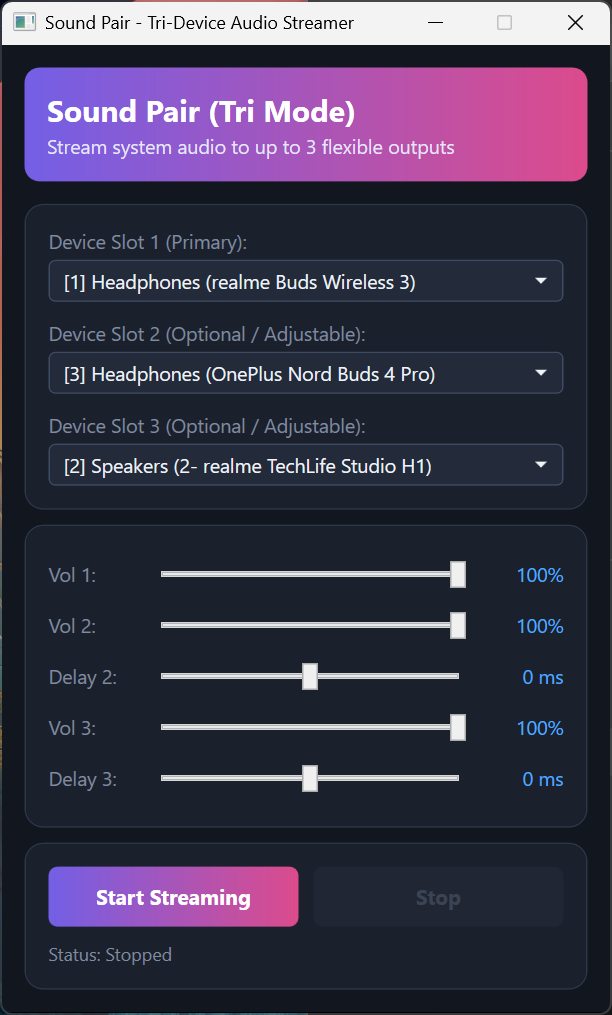
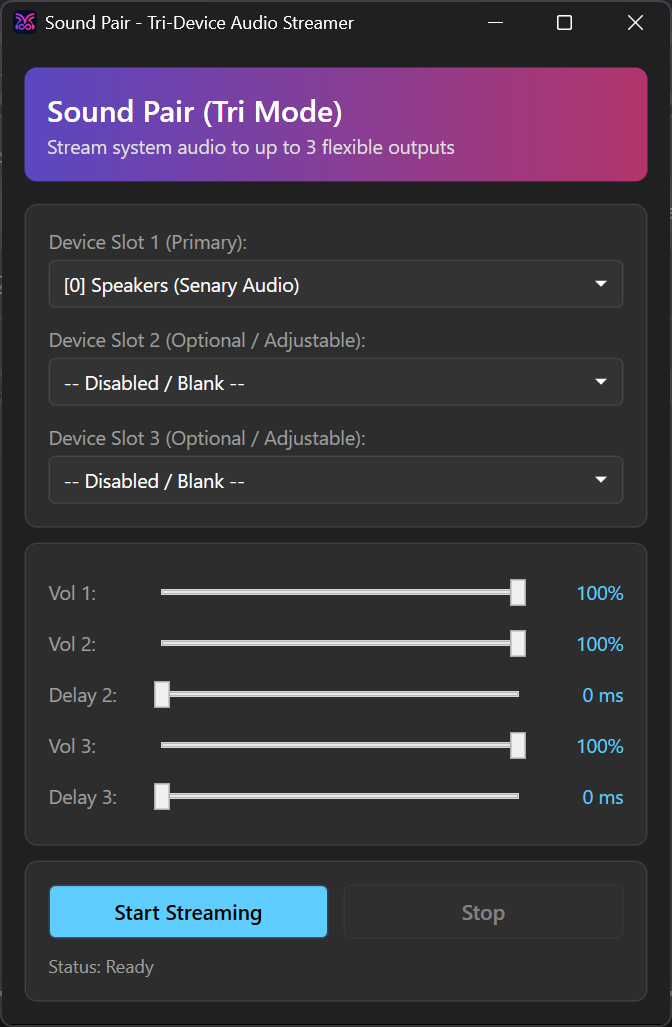
ui change

diff --git a/MainWindow.xaml b/MainWindow.xaml
@@ -6,31 +6,31 @@
         MinWidth="420" MinHeight="550"
         Width="460" SizeToContent="Height"
         WindowStartupLocation="CenterScreen"
-        Background="#12161F"
-        FontFamily="Segoe UI"
+        Background="#202020"
+        FontFamily="Segoe UI Variable, Segoe UI, sans-serif"
         ResizeMode="CanResize">
 
     <Window.Resources>
-        <!-- Color Palette -->
-        <SolidColorBrush x:Key="CardBg" Color="#1A202C"/>
-        <SolidColorBrush x:Key="CardBorder" Color="#2D3748"/>
-        <SolidColorBrush x:Key="TextSec" Color="#828CA0"/>
-        <SolidColorBrush x:Key="Highlight" Color="#50AAFF"/>
-        <SolidColorBrush x:Key="DarkInputBg" Color="#232B3A"/>
-        <SolidColorBrush x:Key="DarkInputBorder" Color="#3E4C63"/>
+        <!-- Windows 11 Dark Mode Color Palette -->
+        <SolidColorBrush x:Key="CardBg" Color="#2D2D2D"/>
+        <SolidColorBrush x:Key="CardBorder" Color="#404040"/>
+        <SolidColorBrush x:Key="TextSec" Color="#A0A0A0"/>
+        <SolidColorBrush x:Key="Highlight" Color="#60CDFF"/>
+        <SolidColorBrush x:Key="DarkInputBg" Color="#333333"/>
+        <SolidColorBrush x:Key="DarkInputBorder" Color="#454545"/>
 
         <!-- Generic Text Style -->
         <Style TargetType="TextBlock">
-            <Setter Property="Foreground" Value="#F0F4F8"/>
+            <Setter Property="Foreground" Value="#FFFFFF"/>
             <Setter Property="FontSize" Value="13"/>
         </Style>
 
         <!-- True Dark Mode ComboBox -->
         <Style TargetType="ComboBox">
             <Setter Property="Margin" Value="0,4,0,12"/>
-            <Setter Property="Height" Value="28"/>
+            <Setter Property="Height" Value="32"/>
             <Setter Property="FontSize" Value="13"/>
-            <Setter Property="Foreground" Value="#F0F4F8"/>
+            <Setter Property="Foreground" Value="#FFFFFF"/>
             <Setter Property="Template">
                 <Setter.Value>
                     <ControlTemplate TargetType="ComboBox">
@@ -39,14 +39,14 @@
                                 <ToggleButton.Template>
                                     <ControlTemplate TargetType="ToggleButton">
                                         <Border Background="{StaticResource DarkInputBg}" BorderBrush="{StaticResource DarkInputBorder}" BorderThickness="1" CornerRadius="4">
-                                            <Path x:Name="Arrow" Fill="#F0F4F8" HorizontalAlignment="Right" VerticalAlignment="Center" Margin="0,0,10,0" Data="M 0 0 L 4 4 L 8 0 Z"/>
+                                            <Path x:Name="Arrow" Fill="#FFFFFF" HorizontalAlignment="Right" VerticalAlignment="Center" Margin="0,0,10,0" Data="M 0 0 L 4 4 L 8 0 Z"/>
                                         </Border>
                                     </ControlTemplate>
                                 </ToggleButton.Template>
                             </ToggleButton>
                             <ContentPresenter x:Name="ContentSite" IsHitTestVisible="False" Content="{TemplateBinding SelectionBoxItem}" Margin="10,0,30,0" VerticalAlignment="Center"/>
                             <Popup x:Name="Popup" Placement="Bottom" IsOpen="{TemplateBinding IsDropDownOpen}" AllowsTransparency="True" Focusable="False" PopupAnimation="Slide">
-                                <Border x:Name="DropDownBorder" Background="{StaticResource DarkInputBg}" BorderThickness="1" BorderBrush="{StaticResource DarkInputBorder}" MinWidth="{TemplateBinding ActualWidth}" MaxHeight="150">
+                                <Border x:Name="DropDownBorder" Background="{StaticResource CardBg}" BorderThickness="1" BorderBrush="{StaticResource CardBorder}" CornerRadius="4" MinWidth="{TemplateBinding ActualWidth}" MaxHeight="150" Margin="0,4,0,0">
                                     <ScrollViewer SnapsToDevicePixels="True">
                                         <StackPanel IsItemsHost="True" KeyboardNavigation.DirectionalNavigation="Contained" />
                                     </ScrollViewer>
@@ -59,17 +59,18 @@
             <Setter Property="ItemContainerStyle">
                 <Setter.Value>
                     <Style TargetType="ComboBoxItem">
-                        <Setter Property="Foreground" Value="#F0F4F8"/>
-                        <Setter Property="Padding" Value="10,5"/>
+                        <Setter Property="Foreground" Value="#FFFFFF"/>
+                        <Setter Property="Padding" Value="10,6"/>
+                        <Setter Property="Margin" Value="4,2"/>
                         <Setter Property="Template">
                             <Setter.Value>
                                 <ControlTemplate TargetType="ComboBoxItem">
-                                    <Border x:Name="ItemBorder" Background="Transparent">
+                                    <Border x:Name="ItemBorder" Background="Transparent" CornerRadius="4">
                                         <ContentPresenter Margin="{TemplateBinding Padding}"/>
                                     </Border>
                                     <ControlTemplate.Triggers>
                                         <Trigger Property="IsHighlighted" Value="True">
-                                            <Setter TargetName="ItemBorder" Property="Background" Value="#313D52"/>
+                                            <Setter TargetName="ItemBorder" Property="Background" Value="#404040"/>
                                         </Trigger>
                                     </ControlTemplate.Triggers>
                                 </ControlTemplate>
@@ -83,12 +84,12 @@
         <!-- Custom Button Style -->
         <Style x:Key="DarkButton" TargetType="Button">
             <Setter Property="Foreground" Value="White"/>
-            <Setter Property="FontWeight" Value="Bold"/>
+            <Setter Property="FontWeight" Value="SemiBold"/>
             <Setter Property="FontSize" Value="14"/>
             <Setter Property="Template">
                 <Setter.Value>
                     <ControlTemplate TargetType="Button">
-                        <Border x:Name="Border" Background="{TemplateBinding Background}" CornerRadius="6">
+                        <Border x:Name="Border" Background="{TemplateBinding Background}" BorderBrush="{TemplateBinding BorderBrush}" BorderThickness="{TemplateBinding BorderThickness}" CornerRadius="4">
                             <ContentPresenter HorizontalAlignment="Center" VerticalAlignment="Center"/>
                         </Border>
                         <ControlTemplate.Triggers>
@@ -105,7 +106,7 @@
             <Setter Property="Background" Value="{StaticResource CardBg}"/>
             <Setter Property="BorderBrush" Value="{StaticResource CardBorder}"/>
             <Setter Property="BorderThickness" Value="1"/>
-            <Setter Property="CornerRadius" Value="12"/>
+            <Setter Property="CornerRadius" Value="8"/>
             <Setter Property="Padding" Value="15"/>
             <Setter Property="Margin" Value="0,0,0,10"/>
         </Style>
@@ -115,16 +116,16 @@
         <StackPanel Margin="15">
             
             <!-- Header -->
-            <Border CornerRadius="10" Margin="0,0,0,15" Padding="15">
+            <Border CornerRadius="8" Margin="0,0,0,15" Padding="15">
                 <Border.Background>
                     <LinearGradientBrush StartPoint="0,0" EndPoint="1,0">
-                        <GradientStop Color="#735FE6" Offset="0"/>
-                        <GradientStop Color="#DC4B8C" Offset="1"/>
+                        <GradientStop Color="#5A47C1" Offset="0"/>
+                        <GradientStop Color="#B2356B" Offset="1"/>
                     </LinearGradientBrush>
                 </Border.Background>
                 <StackPanel>
-                    <TextBlock Text="Sound Pair (Tri Mode)" FontSize="20" FontWeight="Bold" Foreground="White"/>
-                    <TextBlock Text="Stream system audio to up to 3 flexible outputs" FontSize="13" Foreground="#E6E6FA" Margin="0,2,0,0"/>
+                    <TextBlock Text="Sound Pair (Tri Mode)" FontSize="20" FontWeight="SemiBold" Foreground="White"/>
+                    <TextBlock Text="Stream system audio to up to 3 flexible outputs" FontSize="13" Foreground="#E0E0E0" Margin="0,2,0,0"/>
                 </StackPanel>
             </Border>
 
@@ -192,16 +193,15 @@
                             <ColumnDefinition Width="*"/>
                         </Grid.ColumnDefinitions>
                         
-                        <Button Grid.Column="0" x:Name="btnStart" Content="Start Streaming" Height="40" BorderThickness="0" Click="BtnStart_Click" Style="{StaticResource DarkButton}">
-                            <Button.Background>
-                                <LinearGradientBrush StartPoint="0,0" EndPoint="1,0">
-                                    <GradientStop Color="#735FE6" Offset="0"/>
-                                    <GradientStop Color="#DC4B8C" Offset="1"/>
-                                </LinearGradientBrush>
-                            </Button.Background>
-                        </Button>
+                        <Button Grid.Column="0" x:Name="btnStart" Content="Start Streaming" Height="36" 
+                                BorderThickness="1" BorderBrush="#3A4354" 
+                                Background="{StaticResource Highlight}" Foreground="Black"
+                                Click="BtnStart_Click" Style="{StaticResource DarkButton}"/>
                         
-                        <Button Grid.Column="2" x:Name="btnStop" Content="Stop" Height="40" Background="#283040" Foreground="#6E788C" BorderThickness="0" IsEnabled="False" Click="BtnStop_Click" Style="{StaticResource DarkButton}"/>
+                        <Button Grid.Column="2" x:Name="btnStop" Content="Stop" Height="36" 
+                                Background="#333333" Foreground="#FFFFFF" BorderThickness="1" 
+                                BorderBrush="#454545" IsEnabled="False" Click="BtnStop_Click" 
+                                Style="{StaticResource DarkButton}"/>
                     </Grid>
                     
                     <TextBlock x:Name="lblStatus" Text="Status: Ready" Foreground="{StaticResource TextSec}" FontSize="12"/>

diff --git a/MainWindow.xaml.cs b/MainWindow.xaml.cs
@@ -158,7 +158,21 @@ namespace SoundPair
         {
             base.OnSourceInitialized(e);
             var helper = new WindowInteropHelper(this);
+            
+            // Force Windows 11 Dark Title Bar
+            ApplyDarkTitleBar(helper.Handle);
+            
             HwndSource.FromHwnd(helper.Handle)?.AddHook(HwndHook);
+        }
+
+        private void ApplyDarkTitleBar(IntPtr hwnd)
+        {
+            int useImmersiveDarkMode = 1;
+            int hr = DwmSetWindowAttribute(hwnd, 20, ref useImmersiveDarkMode, sizeof(int));
+            if (hr != 0) 
+            {
+                DwmSetWindowAttribute(hwnd, 19, ref useImmersiveDarkMode, sizeof(int));
+            }
         }
 
         private IntPtr HwndHook(IntPtr hwnd, int msg, IntPtr wParam, IntPtr lParam, ref bool handled)
@@ -689,6 +703,9 @@ namespace SoundPair
 
             base.OnClosed(e);
         }
+        
+        [DllImport("dwmapi.dll")]
+        private static extern int DwmSetWindowAttribute(IntPtr hwnd, int attr, ref int attrValue, int attrSize);
     }
 
     [ComImport]
